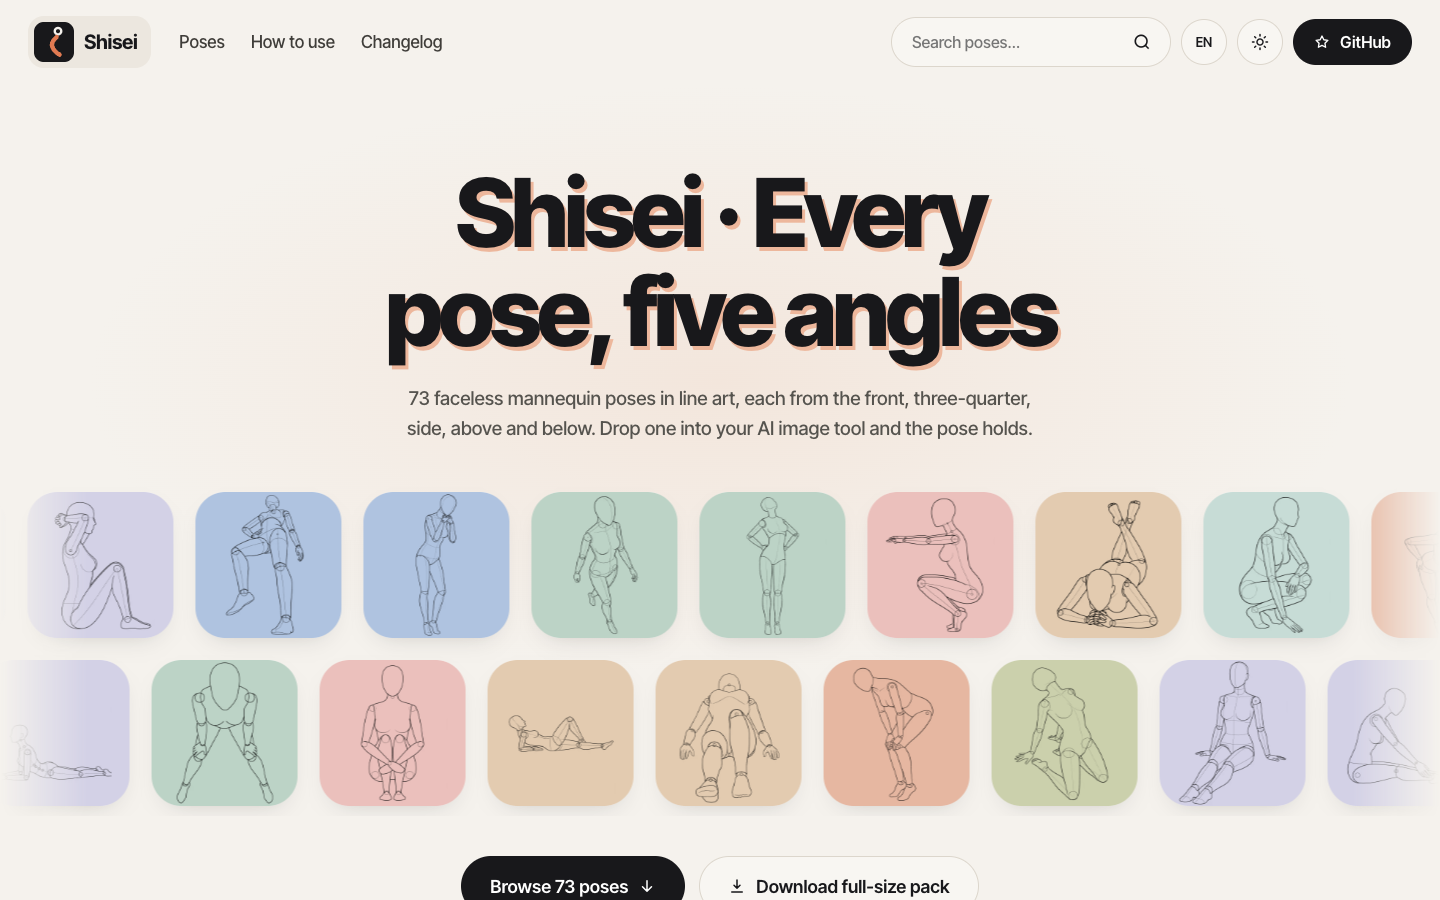
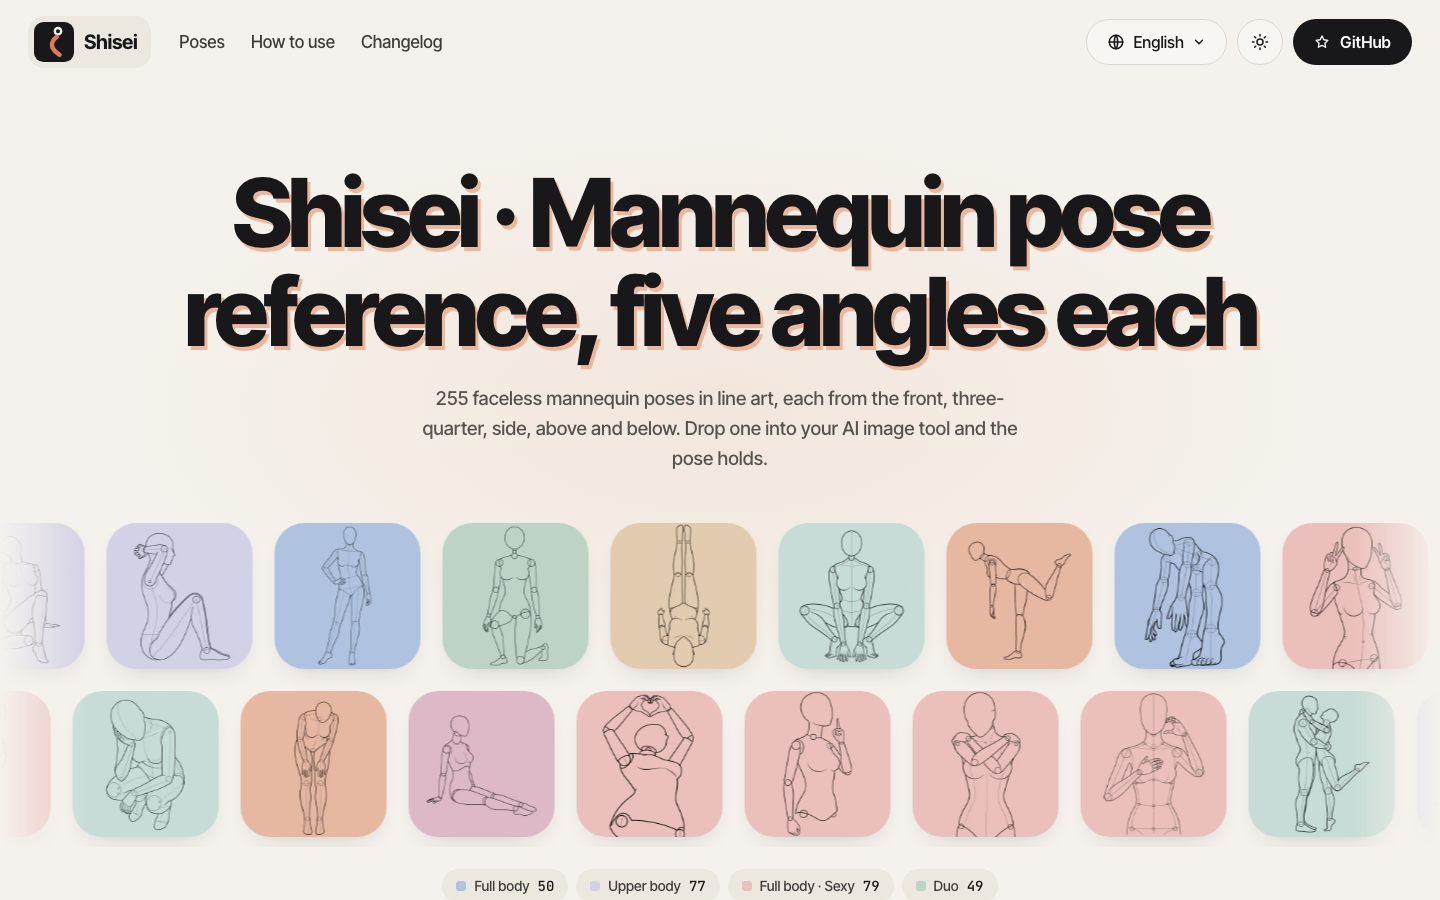
docs: retake the README screenshot and update pose counts

diff --git a/docs/readme/README.ja.md b/docs/readme/README.ja.md
@@ -4,12 +4,12 @@
 
 # Shisei 姿勢
 
-**無料（CC0）の素体ポーズ集。4 シリーズ 256 ポーズ × 5 アングルの線画を、Nano Banana・ChatGPT・ComfyUI・Midjourney など画像生成 AI のポーズ指定にそのまま使えます。**
+**無料（CC0）の素体ポーズ集。4 シリーズ 255 ポーズ × 5 アングルの線画を、Nano Banana・ChatGPT・ComfyUI・Midjourney など画像生成 AI のポーズ指定にそのまま使えます。**
 
 [English](../../README.md) · [简体中文](README.zh-CN.md) · 日本語 · [한국어](README.ko.md)
 
-[![Poses](https://img.shields.io/badge/ポーズ-256-15171A?style=flat-square)](../../data/catalog.json)
-[![Line art](https://img.shields.io/badge/線画-1049%20QC%20passed-1A5CC8?style=flat-square)](../GENERATION.md)
+[![Poses](https://img.shields.io/badge/ポーズ-255-15171A?style=flat-square)](../../data/catalog.json)
+[![Line art](https://img.shields.io/badge/線画-999%20QC%20passed-1A5CC8?style=flat-square)](../GENERATION.md)
 [![Photos](https://img.shields.io/badge/実写-103-5B616A?style=flat-square)](../GENERATION.md)
 [![Languages](https://img.shields.io/badge/名称-ja%20·%20zh%20·%20en%20·%20ko-0aa06e?style=flat-square)](../../data/catalog.csv)
 [![Dependencies](https://img.shields.io/badge/ランタイム依存-0-E07A52?style=flat-square)](../../web)

diff --git a/docs/readme/README.ko.md b/docs/readme/README.ko.md
@@ -4,12 +4,12 @@
 
 # Shisei 姿勢
 
-**무료(CC0) 마네킹 포즈 자료. 4개 시리즈 256가지 포즈 × 5개 앵글의 선화를 Nano Banana, ChatGPT, ComfyUI, Midjourney 등 AI 그림 도구의 포즈 참고로 바로 쓸 수 있습니다.**
+**무료(CC0) 마네킹 포즈 자료. 4개 시리즈 255가지 포즈 × 5개 앵글의 선화를 Nano Banana, ChatGPT, ComfyUI, Midjourney 등 AI 그림 도구의 포즈 참고로 바로 쓸 수 있습니다.**
 
 [English](../../README.md) · [简体中文](README.zh-CN.md) · [日本語](README.ja.md) · 한국어
 
-[![Poses](https://img.shields.io/badge/포즈-256-15171A?style=flat-square)](../../data/catalog.json)
-[![Line art](https://img.shields.io/badge/선화-1049%20QC%20passed-1A5CC8?style=flat-square)](../GENERATION.md)
+[![Poses](https://img.shields.io/badge/포즈-255-15171A?style=flat-square)](../../data/catalog.json)
+[![Line art](https://img.shields.io/badge/선화-999%20QC%20passed-1A5CC8?style=flat-square)](../GENERATION.md)
 [![Photos](https://img.shields.io/badge/실사-103-5B616A?style=flat-square)](../GENERATION.md)
 [![Languages](https://img.shields.io/badge/이름-ja%20·%20zh%20·%20en%20·%20ko-0aa06e?style=flat-square)](../../data/catalog.csv)
 [![Dependencies](https://img.shields.io/badge/런타임%20의존성-0-E07A52?style=flat-square)](../../web)

diff --git a/docs/readme/README.zh-CN.md b/docs/readme/README.zh-CN.md
@@ -4,12 +4,12 @@
 
 # Shisei 姿勢
 
-**免费（CC0）白模姿势参考库：四个系列 256 套无脸白模（素体）姿势，每套 5 个机位，线稿可直接喂给 Nano Banana、ChatGPT、ComfyUI、Midjourney 等 AI 绘图工具。**
+**免费（CC0）白模姿势参考库：四个系列 255 套无脸白模（素体）姿势，每套 5 个机位，线稿可直接喂给 Nano Banana、ChatGPT、ComfyUI、Midjourney 等 AI 绘图工具。**
 
 [English](../../README.md) · 简体中文 · [日本語](README.ja.md) · [한국어](README.ko.md)
 
-[![Poses](https://img.shields.io/badge/姿势-256-15171A?style=flat-square)](../../data/catalog.json)
-[![Line art](https://img.shields.io/badge/线稿-1049%20QC%20passed-1A5CC8?style=flat-square)](../GENERATION.md)
+[![Poses](https://img.shields.io/badge/姿势-255-15171A?style=flat-square)](../../data/catalog.json)
+[![Line art](https://img.shields.io/badge/线稿-999%20QC%20passed-1A5CC8?style=flat-square)](../GENERATION.md)
 [![Photos](https://img.shields.io/badge/实拍-103-5B616A?style=flat-square)](../GENERATION.md)
 [![Languages](https://img.shields.io/badge/名称-ja%20·%20zh%20·%20en%20·%20ko-0aa06e?style=flat-square)](../../data/catalog.csv)
 [![Dependencies](https://img.shields.io/badge/运行时依赖-0-E07A52?style=flat-square)](../../web)

diff --git a/README.md b/README.md
@@ -4,13 +4,13 @@
 
 # Shisei 姿勢
 
-**A free (CC0) mannequin pose reference library: 256 poses in four series × 5 camera angles, drawn as clean line art
+**A free (CC0) mannequin pose reference library: 255 poses in four series × 5 camera angles, drawn as clean line art
 for Nano Banana, ChatGPT, ComfyUI, Midjourney and other AI image tools.**
 
 English · [简体中文](docs/readme/README.zh-CN.md) · [日本語](docs/readme/README.ja.md) · [한국어](docs/readme/README.ko.md)
 
-[![Poses](https://img.shields.io/badge/poses-256-15171A?style=flat-square)](data/catalog.json)
-[![Line art](https://img.shields.io/badge/line%20art-1049%20QC%20passed-1A5CC8?style=flat-square)](docs/GENERATION.md)
+[![Poses](https://img.shields.io/badge/poses-255-15171A?style=flat-square)](data/catalog.json)
+[![Line art](https://img.shields.io/badge/line%20art-999%20QC%20passed-1A5CC8?style=flat-square)](docs/GENERATION.md)
 [![Photos](https://img.shields.io/badge/photos-103-5B616A?style=flat-square)](docs/GENERATION.md)
 [![Languages](https://img.shields.io/badge/names-ja%20·%20zh%20·%20en%20·%20ko-0aa06e?style=flat-square)](data/catalog.csv)
 [![Dependencies](https://img.shields.io/badge/runtime%20deps-0-E07A52?style=flat-square)](web)

diff --git a/CHANGELOG.md b/CHANGELOG.md
@@ -14,6 +14,7 @@ the catalog schema.
 - Page titles, descriptions, hero headings and README taglines now say what people search for in each language:
   白模 / 素体ポーズ集 / mannequin pose reference / 마네킹 포즈 자료, free CC0, and the AI tools (Nano Banana, ChatGPT,
   ComfyUI, Midjourney).
+- README screenshot retaken from the live gallery; README pose and view counts brought up to date.
 
 ### Removed
 - P006 front view: the drawing has three arms, which the QC review missed. Manual QC results now go in
